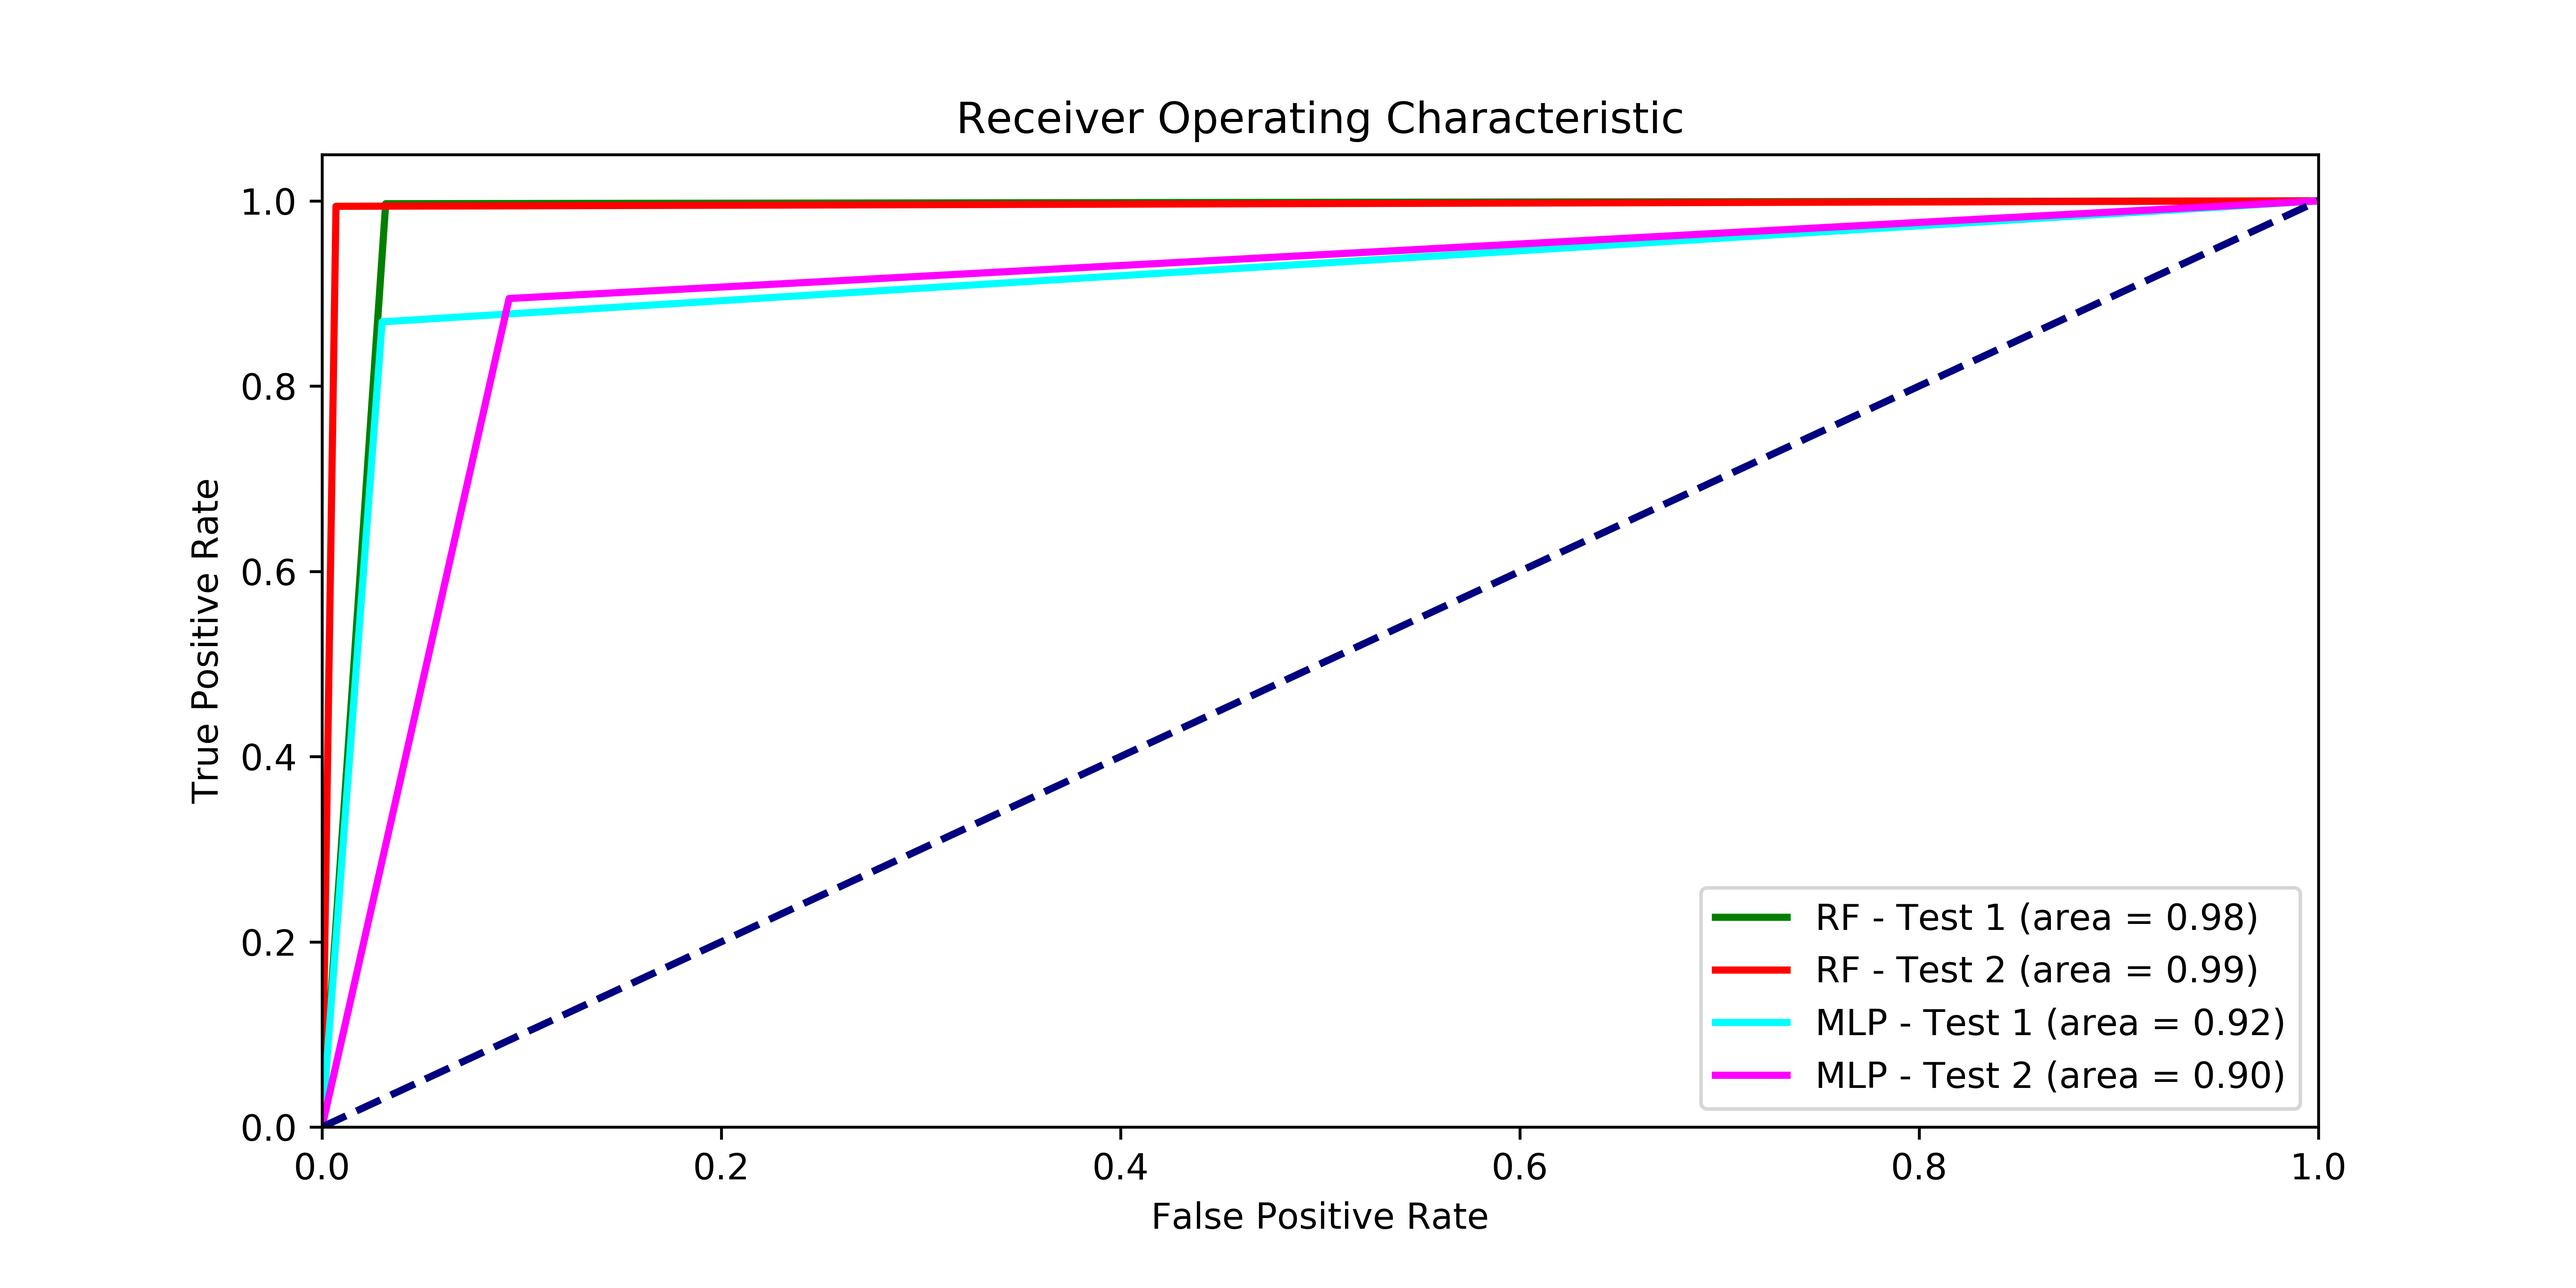
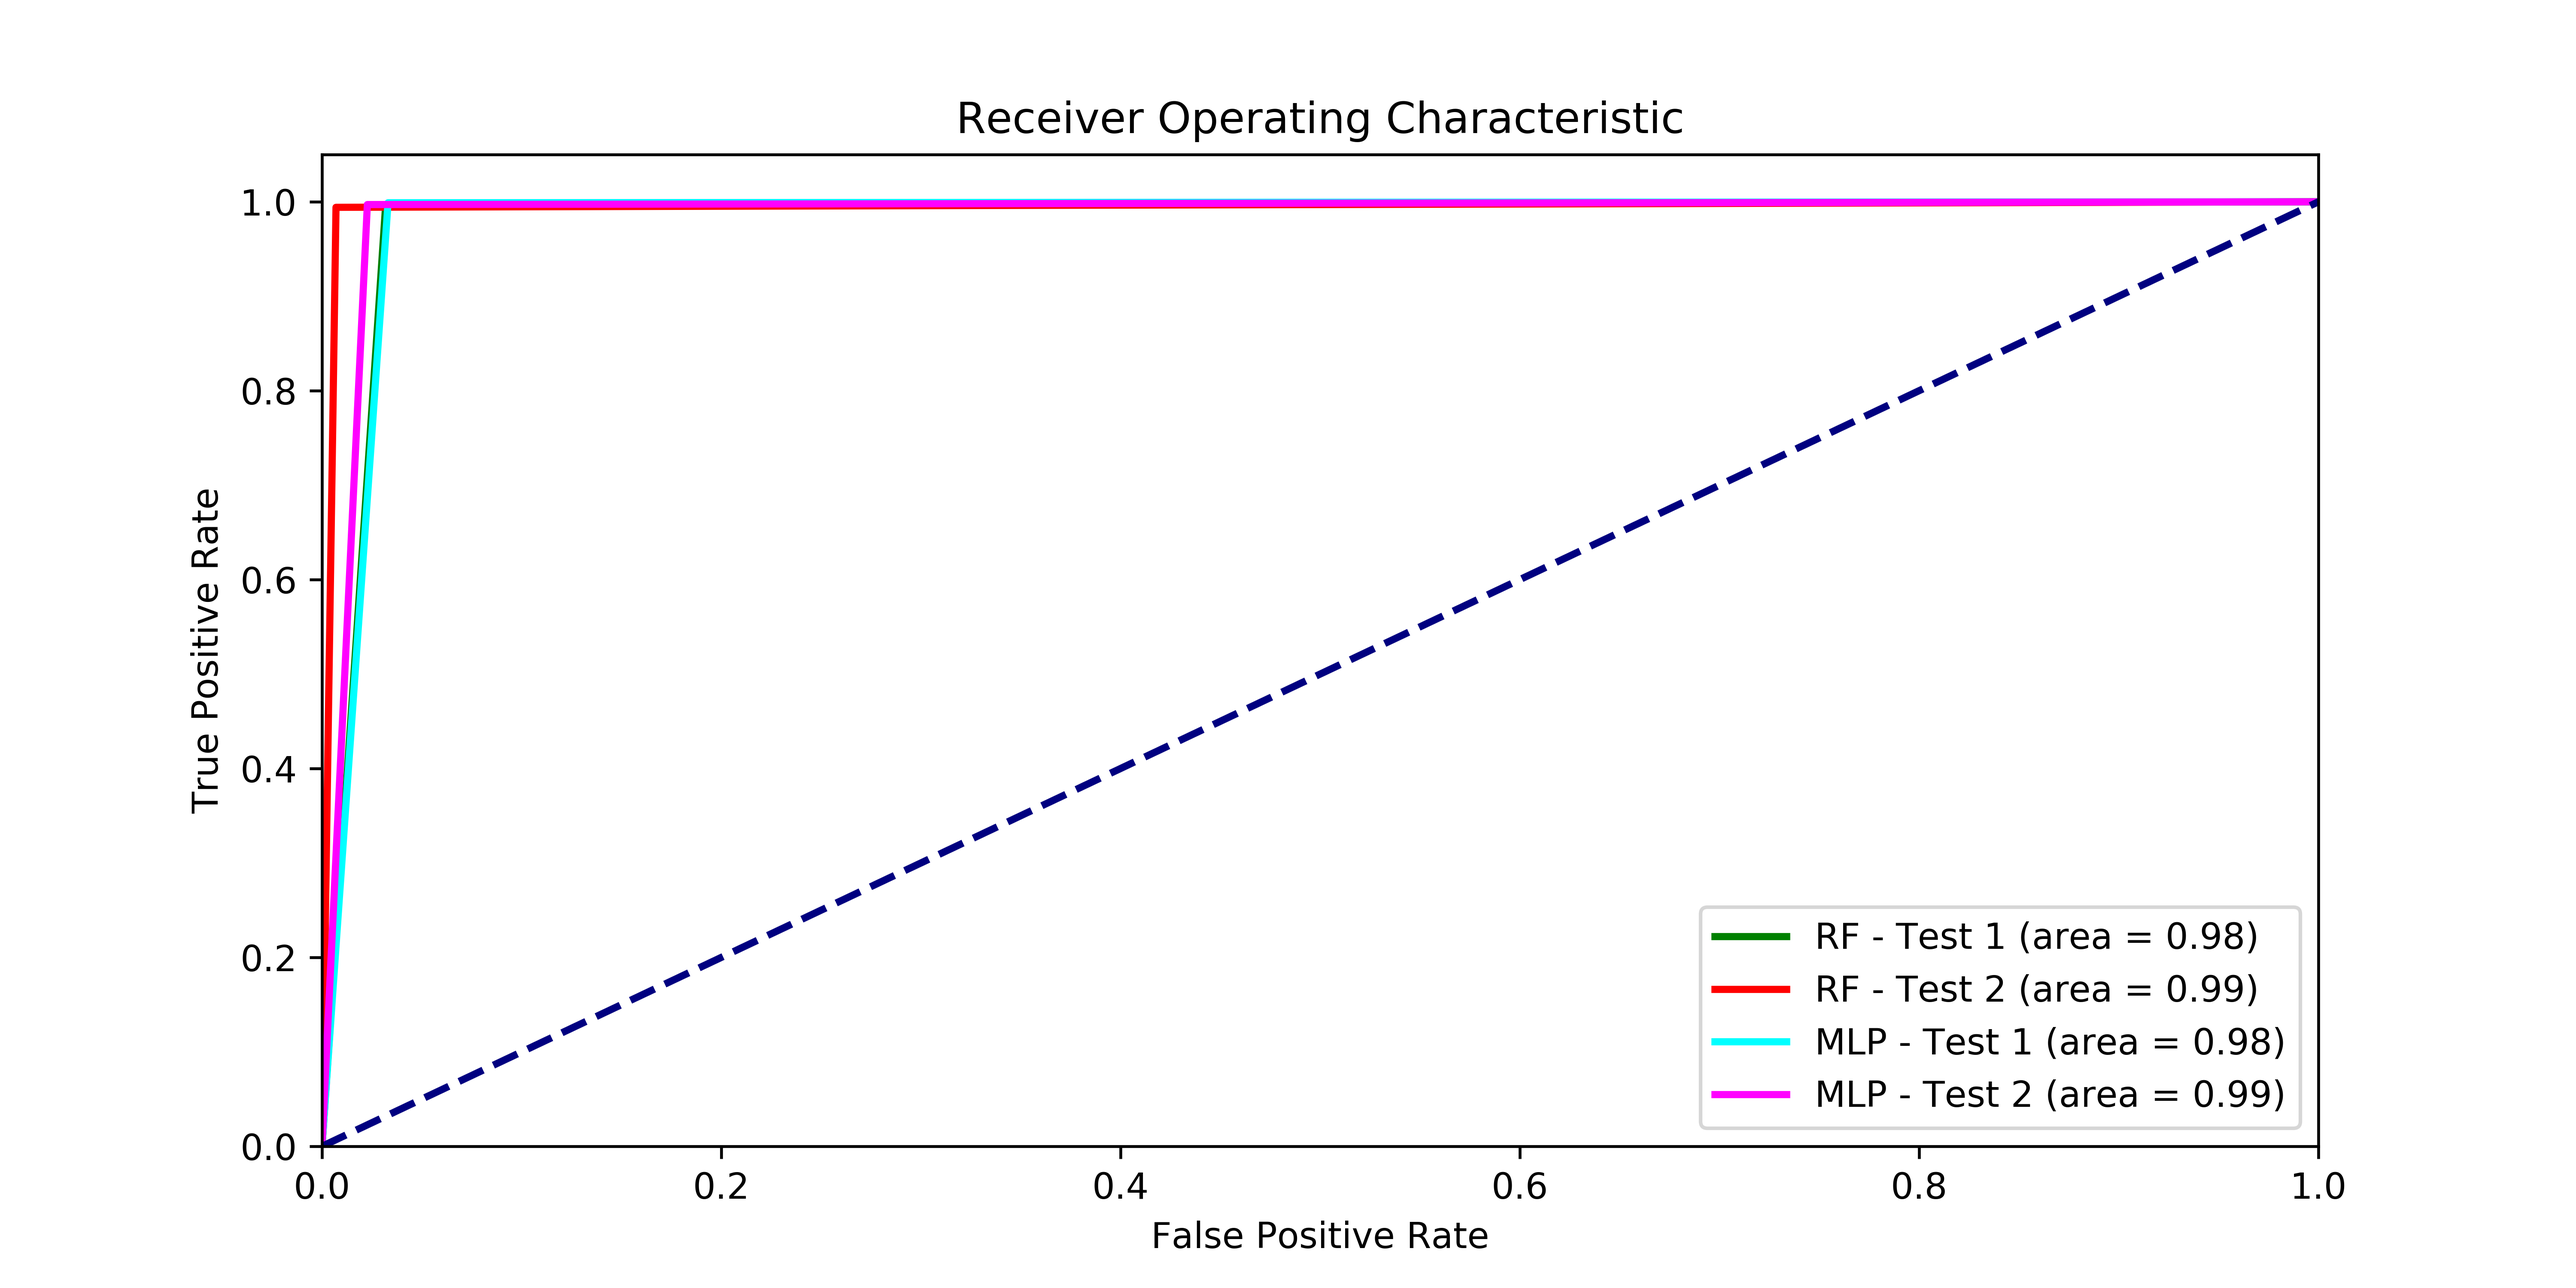
Tuned MLP.

diff --git a/occupancy_detection.py b/occupancy_detection.py
@@ -8,8 +8,6 @@ from sklearn.preprocessing import StandardScaler
 from sklearn.pipeline import Pipeline
 from sklearn import svm
 import numpy as np
-import matplotlib
-matplotlib.use('Agg') #Use this backend to save figs without showing
 import matplotlib.pyplot as plt
 import matplotlib.font_manager
 from keras.models import Sequential
@@ -42,7 +40,7 @@ def autolabel(rects):
     for rect in rects:
         height = rect.get_height()
         ax.text(rect.get_x() + rect.get_width()/2., 1.05*height,
-                '%.2f' % height,
+                '%.3f' % height,
                 ha='center', va='bottom')
 
 # Define filenames
@@ -98,7 +96,7 @@ class_weights = class_weight.compute_class_weight('balanced',
 estimator = []
 estimator.append(('standardize', StandardScaler()))
 estimator.append(('mlp', KerasClassifier(build_fn=mlp_model, 
-                                         epochs=1, 
+                                         epochs=2, 
                                          batch_size=50, 
                                          verbose=1, 
                                          class_weight=class_weights)))
@@ -134,7 +132,7 @@ x_test_svm = np.asarray(x_test_svm)
 x_train_svm = np.asarray(x_train_svm)
 
 # Fit the OC-SVM
-ocsvm = svm.OneClassSVM(nu=0.1, kernel='rbf', gamma=0.1)
+ocsvm = svm.OneClassSVM(nu=0.1, kernel='rbf', gamma=0.3)
 ocsvm.fit(x_train_svm)
 
 # Test the OC-SVM
